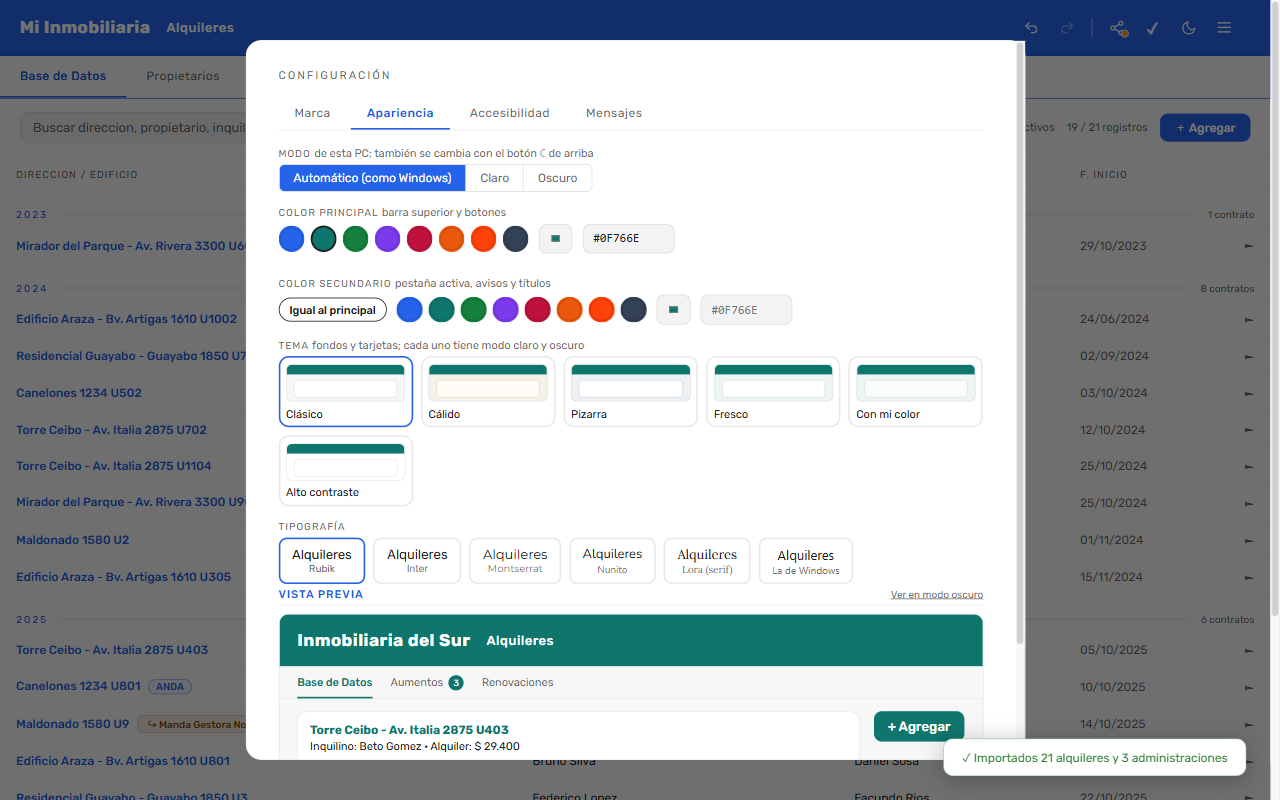
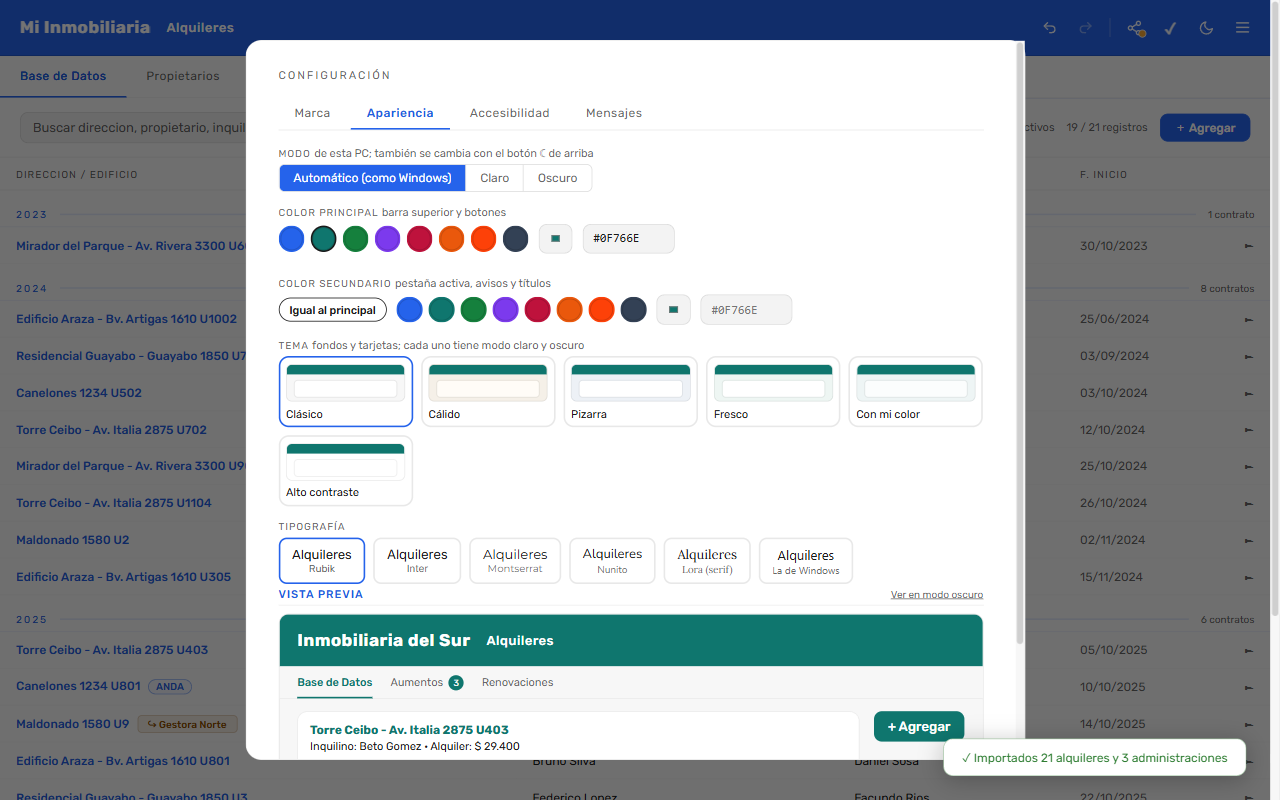
docs: CHANGELOG y README del refactor, capturas actualizadas
Las capturas de la documentacion consultan el IPC al INE como la app
real (antes mostraban "..." y, con el arranque de las pruebas,
"sin conexion").

diff --git a/scripts/capturas.js b/scripts/capturas.js
@@ -8,7 +8,8 @@ const SALIDA = path.join(ROOT, 'docs', 'capturas');
 
 async function main() {
   fs.mkdirSync(SALIDA, { recursive: true });
-  const { app, page } = await lanzar(carpetaTemporal('alq-capturas-'), {}, { tamano: { width: 1280, height: 800 } });
+  // El IPC se consulta al INE como en la app real (las pruebas lo desactivan).
+  const { app, page } = await lanzar(carpetaTemporal('alq-capturas-'), { ADMIN_ALQ_NO_EXTERNAL: undefined }, { tamano: { width: 1280, height: 800 } });
   const captura = async nombre => { await page.waitForTimeout(250); await page.screenshot({ path: path.join(SALIDA, nombre + '.png') }); console.log('  ' + nombre); };
   const sinToast = () => page.evaluate(() => { document.getElementById('toast').className = ''; });
 

diff --git a/CHANGELOG.md b/CHANGELOG.md
@@ -2,6 +2,28 @@
 
 Todas las versiones siguen [SemVer](https://semver.org/lang/es/). Cada versión tiene su tag `vX.Y.Z` en git.
 
+## [Sin publicar]
+
+### Corregido
+- Deshacer: un cambio hecho enseguida de importar una planilla ya no se deshace junto con la importación.
+- Datos de ejemplo: el delegado se llama "Gestora Norte" (sin el prefijo de la planilla original).
+
+### Cambiado (código, sin cambios visibles)
+- Reglas de negocio que estaban en la interfaz pasan a `dominios/` (importe nuevo, número de WhatsApp, urgencia
+  de los vencimientos, normalización de contratos). Aumentos y Renovaciones tienen vistas propias. La base de
+  datos pasa de un archivo de 729 líneas a una carpeta con un archivo por tema.
+- Sin código repetido: un solo diálogo de planillas, canales comunes del editor y el Visor, ayudantes de archivos
+  e imágenes, una sola forma de abrir la app en las pruebas.
+- Se dejaron de exportar 108 funciones que solo se usan en su archivo; el CSS no tiene reglas duplicadas.
+- Nombres del código unificados en español (funciones, métodos, constantes y variables). Las claves guardadas
+  en la base y en los archivos de configuración no cambian: las bases de la 0.8.0 se abren igual.
+- Configuración: al escribir el nombre de la marca se redibujan solo los íconos que cambian (de 140 a 7).
+
+### Agregado (desarrollo)
+- ESLint y .editorconfig (`npm run lint`), también en GitHub Actions.
+- Prueba de recorrido completo de la app con los datos de ejemplo (22 flujos).
+- Las pruebas abren la app fuera de la pantalla y no consultan al INE por internet.
+
 ## [0.8.0] - 2026-10-22
 
 ### Agregado

diff --git a/README.md b/README.md
@@ -67,10 +67,14 @@ src/
   dominios/        Reglas de negocio puras (sin Electron ni base de datos): aumentos, vencimientos,
                    línea de tiempo, propietarios, direcciones, marca y paleta de colores, mensajes,
                    planilla de importación y datos de ejemplo. Se prueban con node:test.
-  infraestructura/ Proceso principal: base de datos, migraciones, canales con la ventana,
-                   publicación para el Visor, importación de Excel/CSV y descarga del IPC.
+  infraestructura/ Proceso principal: base de datos (base-datos/, un archivo por tema), migraciones,
+                   canales con la ventana, publicación para el Visor, importación de Excel/CSV y
+                   descarga del IPC.
   interfaz/        La ventana: vistas (pestañas), ventanas secundarias y componentes.
 ```
+
+- Los nombres del código están en español. Quedan en inglés los nombres guardados (tablas y columnas
+  de la base, claves de configuración) para que las bases existentes sigan abriendo igual.
 
 - La ventana solo se comunica con el proceso principal por los canales definidos en `preload.js`. El
   Visor registra únicamente canales de lectura.
@@ -83,7 +87,8 @@ src/
 ```bash
 npm test            # unitarias: reglas de negocio, base de datos e importador
 npm run test:e2e    # de punta a punta: abre la app real con Playwright
-npm run test:all    # las dos
+npm run lint        # estilo y errores comunes (ESLint)
+npm run test:all    # lint, unitarias y de punta a punta
 ```
 
 La accesibilidad se revisa automáticamente con [axe-core](https://github.com/dequelabs/axe-core) (WCAG 2.1 A y AA):
